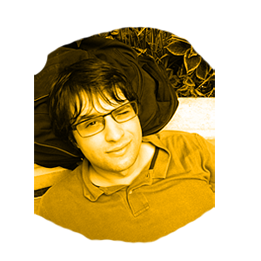
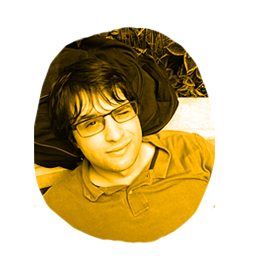
Rounded the corners of circular and ovular photos to appear more pleasant in the event of CSS or page loading malfunction.

diff --git a/public/stylesheets/apprenticeship_tree.css b/public/stylesheets/apprenticeship_tree.css
@@ -167,7 +167,8 @@ li.slide figcaption {
 	overflow: hidden;
 }
 li.slide figcaption a {
-	position: static !important; 
+	position: static !important;
+	padding-left: 15px;
 }
 li.slide figcaption.left {
 	left: -180px;
@@ -365,9 +366,6 @@ ol li:hover img.hover {
 	li.slide figcaption p {
 		display: none;
 	}
-	li.slide figcaption a {
-		padding-left: 15px;
-	}
 	a.previous img,
 	a.next img {
 		display: none;
@@ -403,9 +401,6 @@ ol li:hover img.hover {
 	}
 	li.slide figcaption p {
 		display: none;
-	}
-	li.slide figcaption a {
-		padding-left: 15px;
 	}
 	a.previous img,
 	a.next img {
@@ -443,9 +438,6 @@ ol li:hover img.hover {
 	}
 	li.slide figcaption p {
 		display: none;
-	}
-	li.slide figcaption a {
-		padding-left: 15px;
 	}
 	a.previous img,
 	a.next img {
